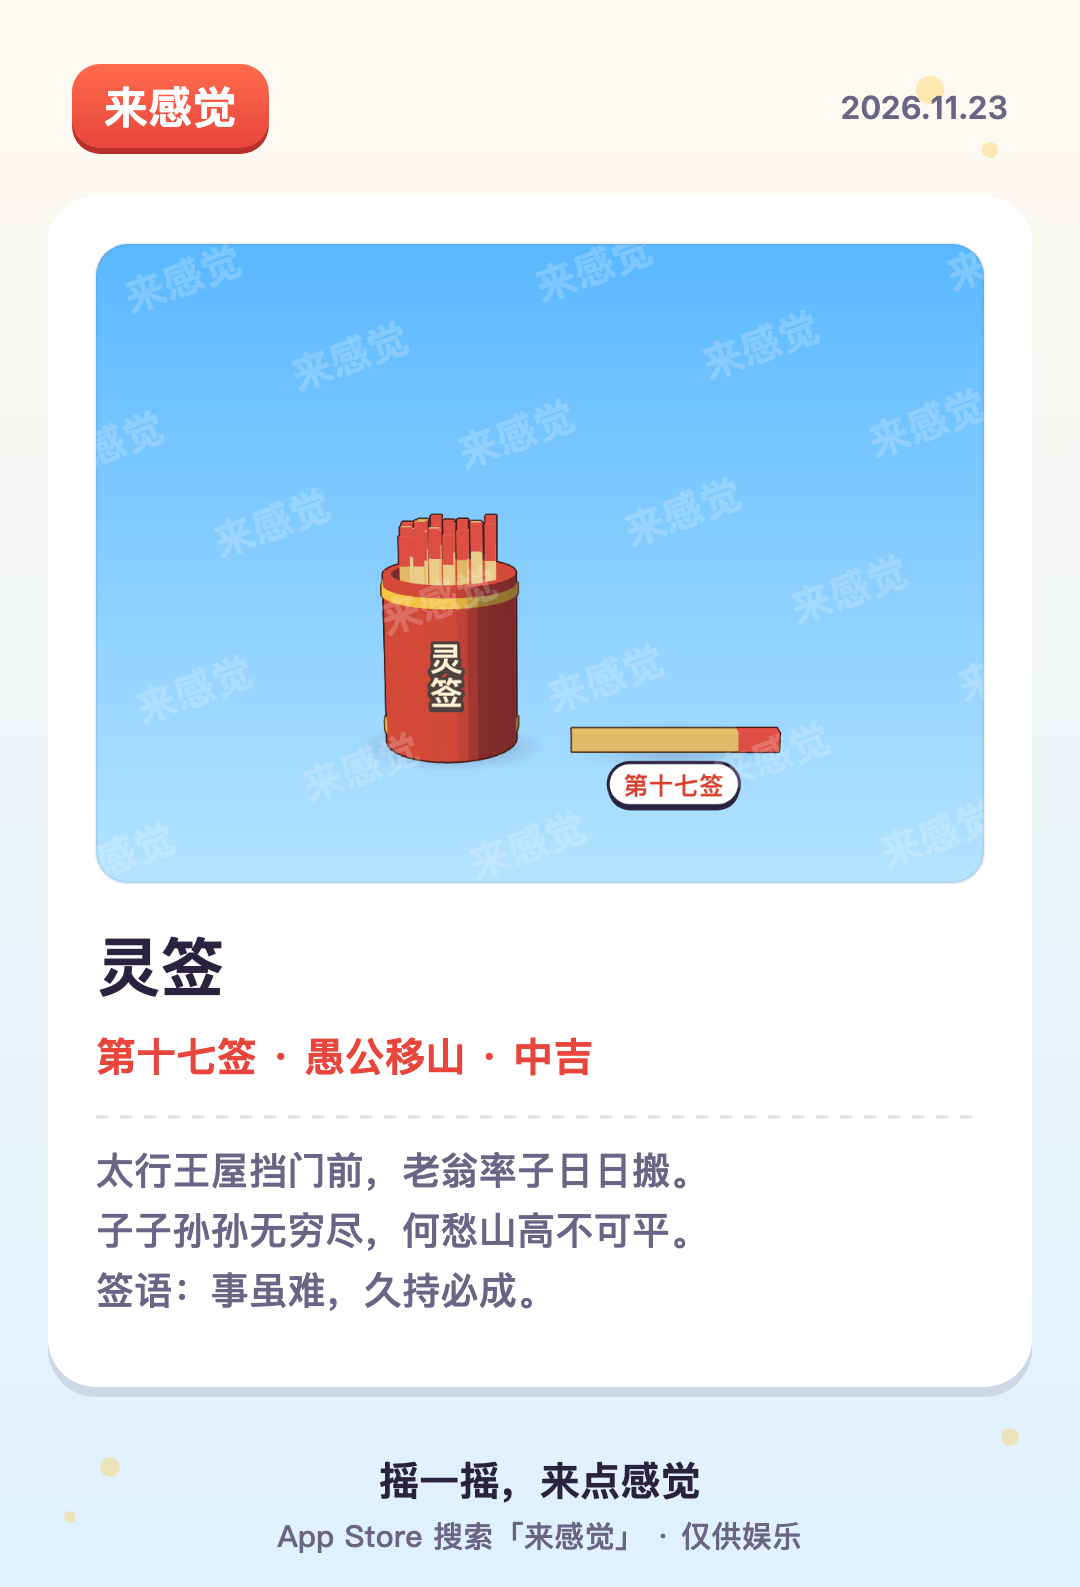
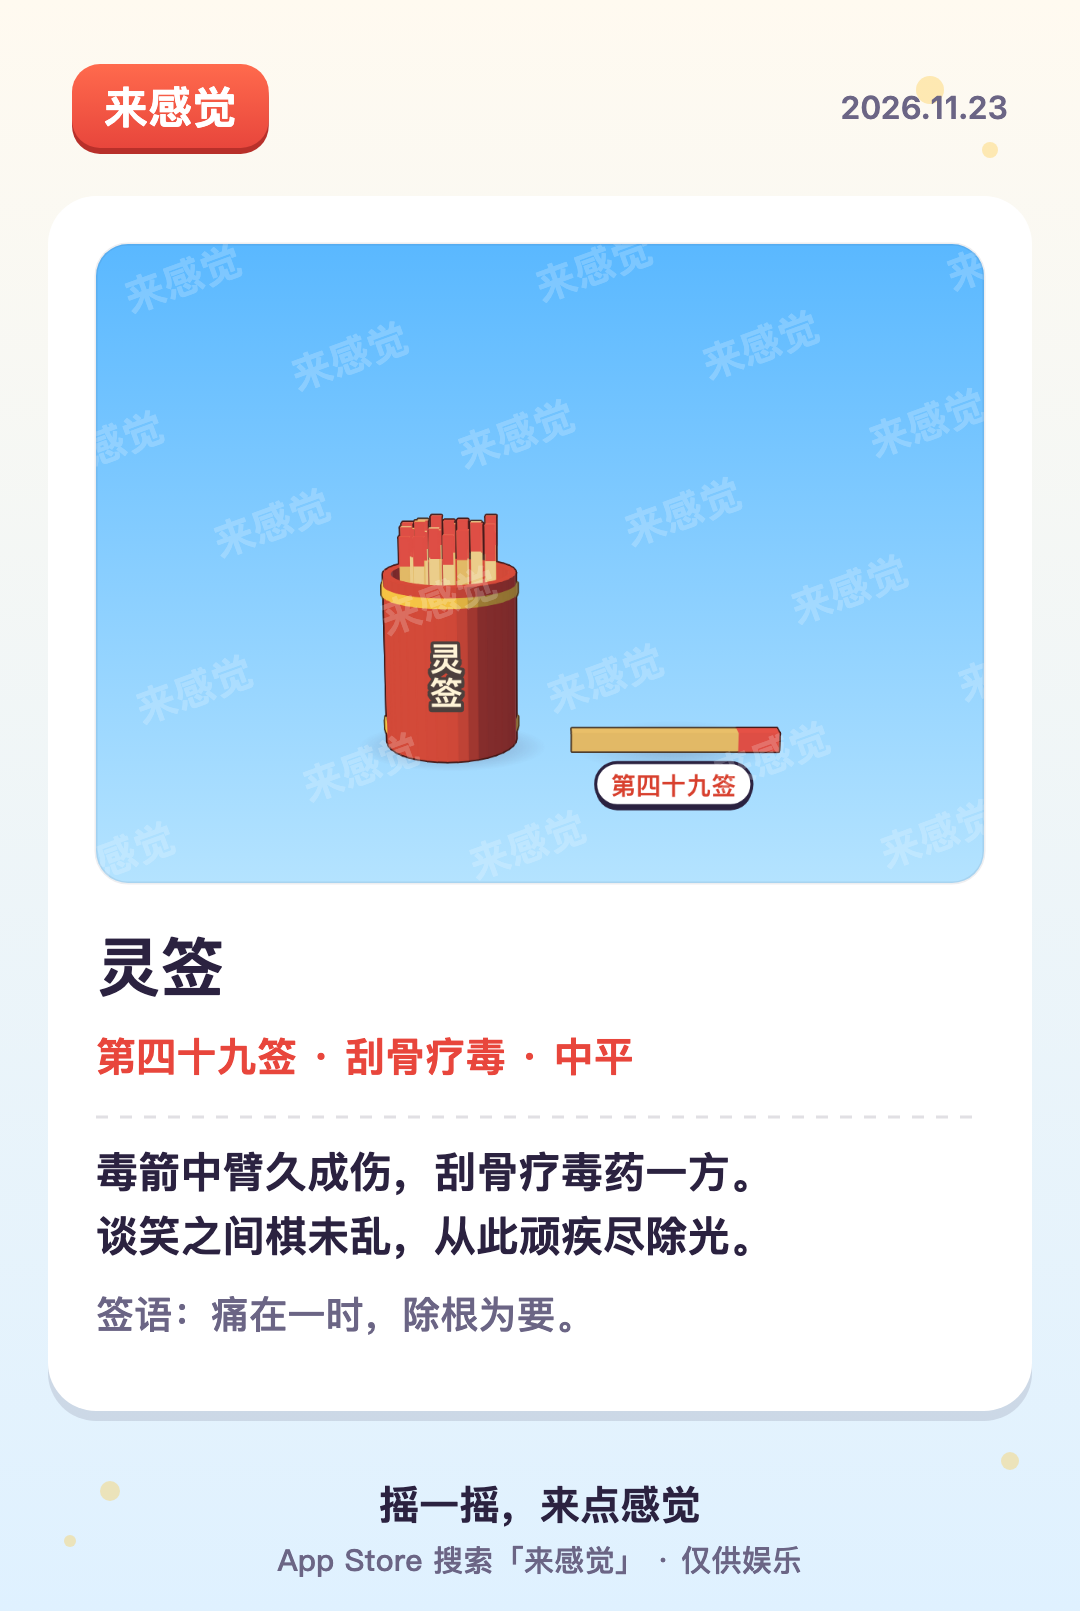
分享卡签诗单独排成深墨粗字两句一行，六爻阴爻改两块独立圆角块（第 73 轮）
Claude-Session: https://claude.ai/code/session_01LrMMAZYbQgrhA5gWEDDdv5

diff --git a/src/ui/share-card.js b/src/ui/share-card.js
@@ -50,6 +50,42 @@ export function clampLines(lines, max, measure, maxWidth) {
   return kept;
 }
 
+const HAN = /^[㐀-鿿]{3,9}$/;
+/**
+ * 签诗行（第 73 轮）：御神签的「甲 / 乙 / 丙 / 丁」两句一行、中间全角空格，灵签的「七言，七言。」整句一行。
+ * 返回诗句行数组，不是签诗返回 null。只认纯汉字短句，所以风水「坎·文曲 / …」、塔罗关键词不会被当成诗。
+ * 诗句单独成行，不再和解读一起逐字折行，免得最后一个字落到下一行。
+ */
+export function poemRows(line, maxWidth, measure) {
+  const s = String(line).trim();
+  if (!s.includes('/')) {
+    const m = s.match(/^([㐀-鿿]{4,9})[，,]([㐀-鿿]{4,9})[。.]?$/);
+    if (!m) return null;
+    return measure(s) <= maxWidth ? [s] : [m[1] + '，', m[2] + '。'];
+  }
+  const segs = s.split('/').map((t) => t.trim());
+  if (segs.length < 2 || segs.length > 6 || !segs.every((t) => HAN.test(t))) return null;
+  const rows = [];
+  for (let i = 0; i < segs.length; i += 2) {
+    const pair = segs.slice(i, i + 2), joined = pair.join('　');
+    if (measure(joined) <= maxWidth) rows.push(joined); else rows.push(...pair);
+  }
+  return rows;
+}
+
+/** 正文排版：签诗行标 poem（深墨粗字），其余按宽度折行，总共最多 max 行，超出的最后一行以「…」收尾。 */
+export function layoutBody(lines, maxWidth, mBody, mPoem, max = 9) {
+  const items = lines.flatMap((l) => {
+    const p = poemRows(l, maxWidth, mPoem);
+    return p ? p.map((t) => ({ t, poem: true })) : wrapText(l, maxWidth, mBody).map((t) => ({ t, poem: false }));
+  });
+  if (items.length <= max) return items;
+  const kept = items.slice(0, max), last = kept[max - 1];
+  const m = last.poem ? mPoem : mBody;
+  kept[max - 1] = { ...last, t: clampLines([last.t, ''], 1, m, maxWidth)[0] };
+  return kept;
+}
+
 /** 当前页面上最大的那块可见器物画面（WebGL 舞台或 2D 画布），抽屉里的不算。 */
 export function captureStage(root = document) {
   let best = null, area = 0;
@@ -111,8 +147,12 @@ export function drawShareCard({ heading, sub = '', lines = [], image = null, wat
   const mHead = measureWith(font(64, 800)), mSub = measureWith(font(40, 700)), mBody = measureWith(font(38, 500));
   const headLines = clampLines(wrapText(heading, inner, mHead), 2, mHead, inner);
   const subLines = sub ? clampLines(wrapText(sub, inner, mSub), 2, mSub, inner) : [];
-  const bodyLines = clampLines(lines.flatMap((l) => wrapText(l, inner, mBody)), 9, mBody, inner);
-  const textH = headLines.length * 84 + (subLines.length ? 18 + subLines.length * 58 : 0) + (bodyLines.length ? 56 + bodyLines.length * 60 : 0);
+  const mPoem = measureWith(font(42, 800));
+  const bodyLines = layoutBody(lines, inner, mBody, mPoem, 9);
+  // 每行高度：诗句 64、解读 60，诗句结束转到解读时多空 16
+  const rowH = (it, i) => (it.poem ? 64 : 60) + (i > 0 && bodyLines[i - 1].poem && !it.poem ? 16 : 0);
+  const bodyH = bodyLines.reduce((s, it, i) => s + rowH(it, i), 0);
+  const textH = headLines.length * 84 + (subLines.length ? 18 + subLines.length * 58 : 0) + (bodyLines.length ? 56 + bodyH : 0);
   const cardY = 196, cardH = 48 + imgH + 52 + textH + 56;
   const H = Math.max(1350, cardY + cardH + 10 + 190);
   canvas.width = CARD_W; canvas.height = H;
@@ -178,8 +218,11 @@ export function drawShareCard({ heading, sub = '', lines = [], image = null, wat
   if (bodyLines.length) {
     y += 22; g.strokeStyle = 'rgba(43,34,64,.14)'; g.lineWidth = 3; g.setLineDash([12, 12]);
     g.beginPath(); g.moveTo(ix, y); g.lineTo(ix + inner, y); g.stroke(); g.setLineDash([]); y += 34;
-    g.font = font(38, 500); g.fillStyle = C.soft;
-    for (const l of bodyLines) { g.fillText(l, ix, y); y += 60; }
+    bodyLines.forEach((it, i) => {
+      if (i > 0 && bodyLines[i - 1].poem && !it.poem) y += 16;
+      g.font = it.poem ? font(42, 800) : font(38, 500); g.fillStyle = it.poem ? C.ink : C.soft;
+      g.fillText(it.t, ix, y); y += it.poem ? 64 : 60;
+    });
   }
 
   // 底部：一句话 + 去哪下载

diff --git a/src/styles/toon-props.css b/src/styles/toon-props.css
@@ -425,6 +425,27 @@
 .m-liuyao .ly-line.lit .ly-bar { box-shadow: 0 2px 0 rgba(43, 34, 64, 0.22); }
 .m-liuyao .ly-line.moving .ly-bar { box-shadow: 0 2px 0 rgba(43, 34, 64, 0.22), 0 0 0 2px var(--glow); }
 .m-liuyao .ly-mark { font-weight: 900; font-size: 14px; }
+/* 第 73 轮：阴爻在约 50px 宽的卦板上中间只空出 10px，厚边阴影又连成一条，远看和阳爻分不清。
+   阴爻改成左右两块各 36% 的独立圆角块，各自带厚边阴影，中间留 28% 空档。 */
+.m-liuyao .ly-line.lit.yin .ly-bar,
+.m-liuyao .ly-line.lit.moving.yin .ly-bar { position: relative; background: none; box-shadow: none; }
+.m-liuyao .ly-line.lit.yin .ly-bar::before,
+.m-liuyao .ly-line.lit.yin .ly-bar::after {
+  content: '';
+  position: absolute;
+  top: 0;
+  bottom: 0;
+  width: 36%;
+  border-radius: 4px;
+  background: var(--text);
+  box-shadow: 0 2px 0 rgba(43, 34, 64, 0.22);
+}
+.m-liuyao .ly-line.lit.yin .ly-bar::before { left: 0; }
+.m-liuyao .ly-line.lit.yin .ly-bar::after { right: 0; }
+.m-liuyao .ly-line.lit.moving.yin .ly-bar::before,
+.m-liuyao .ly-line.lit.moving.yin .ly-bar::after { background: var(--accent); box-shadow: 0 2px 0 rgba(43, 34, 64, 0.22), 0 0 0 2px var(--glow); }
+.m-liuyao .ly-mini-line.yin { background: linear-gradient(90deg, var(--text) 0 36%, transparent 36% 64%, var(--text) 64% 100%); }
+.m-liuyao .ly-mini-line.yin.moving { background: linear-gradient(90deg, var(--accent) 0 36%, transparent 36% 64%, var(--accent) 64% 100%); }
 
 /* 第 46 轮：筊杯舞台卡通化（@readfull 长图发现）。面向标签「弧面 · 阴」「平面 · 阳」是 12px 灰色细字、字距 .08em，
    筊盘是 1px 淡线椭圆，连掷三圣杯的小印是 1px 细圈。

diff --git a/docs/claude-plan/TODO.md b/docs/claude-plan/TODO.md
@@ -191,3 +191,6 @@ P0 上架必需 · P1 影响付费转化 · P2 体验打磨。完成后打勾并
 - [x] **设置页分段选项未选中项太素**（P2，第 70 轮复查发现）✅ 2026-11-23（「器物动画」的「轻柔」和屏保「闲置几分钟后进入」的 1、5、10 没选中时只是一行灰字，看不出能点。`toon-settings.css` 只在设置行里给未选中项加 2px 浅描边胶囊、不加厚边，和选中项区分，玩法页模式选项行不变。两种尺寸截图过目。设置页其余部分没有明显过时的地方，Safari「添加到主屏幕」那段说明在 App 里本来就不显示，「屏幕上快速上滑」图标偶尔截成空框是循环动画拍在淡出那一帧，不是缺图）
 - [x] **静观屏保卡通化**（P2，第 71 轮按上一轮计划复查 2D 界面时发现）✅ 2026-11-23（历史记录与签册第 57 轮已复查过，本轮改看首页长图、分享卡、付费卡与屏保。前三处在卡通标准内，屏保是全 App 最后一块旧样式：0.25 到 0.4 的发丝细环、宋体细字配 .2 到 .3em 大字距、渐变时间字、半透明太极，时间字还压在八卦环上。改为晴空背景上一块白色描边厚边表盘，时辰圆体 900，当前时辰朱红圆章，表盘边上走一枚金币，中心内盘只放时间与日期，农历与宜忌挪到表盘下方两枚描边胶囊。表盘直径按可用高度收小，375×667 也不和古语重叠。`tests/toon-zen.test.mjs` 5 项，393×852、430×932、375×667 三种尺寸，宣纸、玄墨、星穹三套皮肤截图过目）
 - [x] **灵签分享卡 2D 回退里的细签与抽屉标题**（P2，第 71 轮复查分享卡与付费卡时记下）✅ 2026-11-23（第 72 轮。没有 WebGL 时灵签舞台掉出来的签平躺后只剩一道 5.8 × 3.8 的细线，签号是 14px 白描边小字，截进分享卡像一根火柴。`stick-scene.js` 掉出来的签加粗到 12 × 9、签头加长到 26，签号改白底深墨描边厚边胶囊、圆体 900 朱红字。抽屉标题「解锁更多」「设置」「分享」原来 800 字重配 .06em 字距，比卡片标题还散，改圆体 900、18px、字距 .02em。`tests/toon-stick-label.test.mjs` 3 项，宣纸与玄墨两种尺寸截图过目）
+- [x] **分享卡签诗和解读挤在一起、末字落单**（P2，第 73 轮补拍御神签分享卡时发现）✅ 2026-11-24（御神签四句和解读、事项全用 38px 灰色细字逐字折行，「待水势缓时」的「时」掉到下一行单独一行，灵签的七言诗也和签语一个样子，分享出去看不出哪句是签诗。`share-card.js` 新增 `poemRows` 与 `layoutBody`：御神签「甲 / 乙 / 丙 / 丁」两句一行、中间全角空格，灵签「七言，七言。」整句一行，放不下才按逗号拆，诗句改 42px 800 深墨，诗句结束多空 16px 再接灰色解读。只认纯汉字短句，风水方位与塔罗关键词不受影响。`tests/toon-share-poem.test.mjs` 前 4 项，御神签与灵签分享卡两种尺寸截图过目）
+- [x] **六爻卦板阴爻和阳爻分不清**（P2，第 73 轮 `--no-webgl` 复查六爻长图发现）✅ 2026-11-24（卦板一爻约 50px 宽，阴爻中间只空 20% 约 10px，2px 厚边阴影又在空档下面连成一条，远看和阳爻差不多。`toon-props.css` 里亮起的阴爻改成左右两块各 36% 的独立圆角块，各自带厚边阴影，中间空 28%，动爻两块都用主色加光圈，历史小卦图同样改为 36% 与 64% 分界。`tests/toon-share-poem.test.mjs` 第 5 项，宣纸与玄墨两种尺寸截图过目）
+- [ ] **六爻铜钱盘下方空、铜钱挤在底部**（P2，第 73 轮记下）：2D 回退里铜钱落定后都在盘子下三分之一，上面一大片空青绿。完成标准：落定位置分布到盘子中部，或盘子高度随卦板收小，宣纸长图里铜钱不再贴底。注意 `coin` 模块有第 45 轮未提交改动，只改 `liuyao` 自己的文件。

diff --git a/docs/claude-plan/visual-direction.md b/docs/claude-plan/visual-direction.md
@@ -75,6 +75,7 @@
 - 官印印文（第 54 轮，`scenes/seal.js`）：落印时印文平贴宣纸，揭晓印挪开后随 `aside` 翘起 0.78 弧度（约 45 度）朝向镜头、上抬 0.3、左移 0.14、放大到 1.3 倍，镂空字里补纸色 #fff6e6。平躺时镜头俯角约 15 度，两字竖排印文会被压成一条。
 - 六爻舞台（第 44 轮，`toon-props.css`）：铜钱盘青绿绒布 #3aa898、2.5px #2b2240 描边、圆角 18px、内圈 2px 白色 60% 虚线。卦象台 2px --line-strong 描边加 4px 厚边，卦名圆体 900 16px 字距 .04em，爻位圆体 800 12px，「自下而上」圆体 800 11px，爻条 10px 高、圆角 4px、2px 下沉影。
 - 静观屏保（第 71 轮，`zen.js` 的 `ZEN_TOON` 与 `zen.css`）：背景和 2D 舞台同一片天（--toon-sky-1 → --toon-sky-2，深色皮肤是夜空）。表盘直径 `--zr` = min(92vw, 620px, 100vh − 380px − 刘海 − 底部横条)，白色 --surface 圆盘、0.8 单位 --line-strong 描边、下移 1.6 单位的 --edge-color 厚边。时辰字圆体 900、半径 42，当前时辰是朱红 #e8463c 圆章（#7a1a14 描边、白字，所有皮肤同色），时辰之间小圆点代替 24 道发丝刻度。八卦半径 31.8、主色字 700 慢转。中心内盘半径 27 只放时间和日期，时间圆体 900、字号 0.15 × --zr、纯色不用渐变。当前时刻是表盘边上一枚 #ffc93c 金币配 #8a3a10 描边。农历与宜忌挪到表盘下方两枚 2px 描边、3px 厚边的白色胶囊，宜青绿 #22a88f、忌朱红 #d8402e 白字小块。太极固定深墨 #2b2240 与白两色，深色皮肤加奶油描边。古语与「轻触任意处返回」改圆体 800，字距不超过 .06em
+- 分享卡签诗（第 73 轮，`share-card.js` 的 `poemRows` 与 `layoutBody`）：签诗单独排，42px 800 深墨 #2b2240，行高 64，御神签两句一行、中间一个全角空格，灵签七言整句一行。解读与事项仍是 38px 500 #6b6585，行高 60，诗句结束后多空 16px。六爻卦板阴爻（`toon-props.css`）：左右两块各占 36%、圆角 4px、各自 0 2px 0 rgba(43,34,64,.22) 厚边，中间空 28%，动爻两块都用 --accent 加 2px --glow 光圈。
 
 ## 4. 色板（CSS 变量建议）
 
